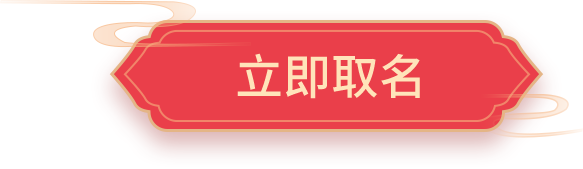
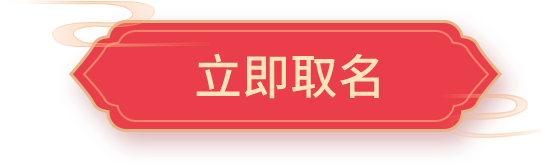
fix(uni_modules): add uni_modules

Changed region(s): [[0.0886, 0.0, 0.9742, 0.8788], [0.3542, 0.303, 0.738, 0.6061], [0.8561, 0.7576, 1.0, 0.8485]]

diff --git a/pages/naming/naming.vue b/pages/naming/naming.vue
@@ -9,7 +9,7 @@
 						中文姓氏
 						<text>*</text>
 					</view>
-					<qm-input placeholder="如张、李" :width="120" :value.sync="lastName"></qm-input>
+					<qm-input placeholder="如张、李" :width="400" :value.sync="lastName"></qm-input>
 					<!-- <qm-radio :arr="['不限','男','女']" :value.sync="sex" labelClass="item"></qm-radio> -->
 				</view>
 				<view class="form-item">
@@ -31,10 +31,13 @@
 						辈分
 						<text style="visibility: hidden">*</text>
 					</view>
-					<qm-input placeholder="如“张小三”是小字辈" :width="320" :value.sync="seniority" />
+					<qm-input placeholder="如“张小三”是小字辈" :width="400" :value.sync="seniority" />
 				</view>
-				<image @click="submit" class="qiming-btn" src="../../static/qiming-btn.png" mode="widthFix" />
-
+				
+				<view class="submit-btn">
+					<image @click="submit" class="qiming-btn" src="../../static/qiming-btn.png" mode="widthFix" />
+				</view>
+				
 				<view class="hint">
 					<view>测试部分免费，获取报告或解锁全部内容时，需付费查看</view>
 					<view>
@@ -54,7 +57,7 @@
 			<view>微信公众号：XXXXXXXX，扫码关注了解更多详情</view>
 		</view>
 
-		<view class="btn-c" @click="submit">
+		<view class="btn-c" @click="submit" v-show="showBtn">
 			<view class="bottom-btn">立即取名</view>
 		</view>
 
@@ -83,10 +86,13 @@ export default {
 			birthdate: null,
 			knowsExactTime: false,
 
+			showBtn: false,
 			isShowCalendar: true
 		};
 	},
-	onLoad() {},
+	onLoad() {
+		this.init()
+	},
 	components: {
 		qmRadio,
 		qmCheckbox,
@@ -95,7 +101,25 @@ export default {
 		qmAd
 	},
 	methods: {
-		confirm() {},
+		init() {
+			const that = this;
+			window.onscroll = function() {
+				let scrollTop = 0
+				if (document.documentElement && document.documentElement.scrollTop){
+					scrollTop = document.documentElement.scrollTop
+				} else if (document.body){
+					scrollTop = document.body.scrollTop
+				}
+				if (scrollTop >= 10){
+					that.showBtn = true
+				} else {
+					that.showBtn = false
+				}
+			}
+		},
+		confirm() {
+			
+		},
 		async submit() {
 			let msg = '';
 			if (!this.lastName) {
@@ -148,7 +172,7 @@ export default {
 }
 
 .form {
-	padding: 0 20rpx;
+	padding: 0 16rpx;
 
 	.title {
 		width: 100%;
@@ -162,10 +186,10 @@ export default {
 		background-repeat: no-repeat;
 		background-size: contain;
 		height: 700rpx;
-		padding: 50rpx 40rpx 0 40rpx;
+		padding: 50rpx 30rpx 0 30rpx;
 
 		.form-item {
-			margin-top: 36rpx;
+			margin-top: 32rpx;
 			display: flex;
 			align-items: center;
 
@@ -181,9 +205,19 @@ export default {
 			}
 		}
 	}
-	.qiming-btn {
-		margin-top: 40rpx;
+	.submit-btn {
+		display: flex;
+		justify-content: center;
+		margin-right: 30rpx;
+		.qiming-btn {
+			margin-top: 40rpx;
+			// position: relative;
+			// right: 32rpx;
+			width: 580rpx;
+			animation: breath 1.8s ease-in-out infinite;
+		}
 	}
+	
 	.hint {
 		display: flex;
 		flex-direction: column;
@@ -238,7 +272,6 @@ export default {
 	position: fixed;
 	bottom: 0;
 	width: 730rpx;
-	animation: breath 1.8s ease-in-out infinite;
 
 	.bottom-btn {
 		display: flex;
@@ -257,13 +290,13 @@ export default {
 
 @keyframes breath {
 	0% {
-		transform: scale(1.1);
+		transform: scale(1);
 	}
 	50% {
-		transform: scale(0.95);
+		transform: scale(0.9);
 	}
 	100% {
-		transform: scale(1.1);
+		transform: scale(1);
 	}
 }
 </style>

diff --git a/pages/package/package.vue b/pages/package/package.vue
@@ -6,8 +6,8 @@
 			<view @click="handleSelect(item)" v-for="(item, index) in packages" :class="['package', selectedPackage && selectedPackage.id === item.id? 'selected' : 'unselected']">
 				<view>
 					<view class="price">
-						<view class="discount">特惠价：{{ item.discountedPrice }}</view>
-						<view class="regular">原价：{{ item.regularPrice }}</view>
+						<view class="discount">特惠价：{{ item.discountedPrice }}元</view>
+						<view class="regular">原价：{{ item.regularPrice }}元</view>
 					</view>
 					<view class="desc">
 						{{ item.name }}：{{ item.description }}
@@ -95,7 +95,7 @@
 <style lang="scss" scoped>
 .body {
 	background-color: #eeeeee;
-	min-height: calc(100vh - 78rpx);
+	min-height: 100vh;
 }
 	
 .banner {
@@ -115,7 +115,6 @@
 		align-items: center;
 		margin-top: 25rpx;
 		border-width: 1px;
-		border-color: rgb(210, 210, 210);
 		border-style: solid;
 		border-radius: 10rpx;
 		
@@ -155,9 +154,12 @@
 	background-image: -moz-linear-gradient( 90deg, rgb(252,234,172) 0%, rgb(254,245,210) 100%);
 	background-image: -webkit-linear-gradient( 90deg, rgb(252,234,172) 0%, rgb(254,245,210) 100%);
 	background-image: -ms-linear-gradient( 90deg, rgb(252,234,172) 0%, rgb(254,245,210) 100%);
+	
+	border-color: #e4c29f;
 }
 .unselected {
 	background-color: #ffffff;
+	border-color: rgb(210, 210, 210);
 }
 .divider {
 	width: 700rpx;

diff --git a/components/qm-ad/qm-ad.vue b/components/qm-ad/qm-ad.vue
@@ -1,7 +1,6 @@
 <template>
 	<view
 		class="box"
-		:style="{ top: top + 'px', left: left + 'px' }"
 	>
 		<image class="ad" src="../../static/ad.png" ></image>
 	</view>
@@ -13,47 +12,9 @@
 		data() {
 			return {
 			  show: true,
-			  stepX: 1,
-			  stepY: 1,
-			  timer: null,
-			  maxTop: 0,
-			  maxLeft: 0,
-			  top: 0,
-			  left: 0,
 			}
 		},
-		mounted() {
-			this.init()
-		},
-		beforeDestroy() {
-			// dom 销毁前清除定时器
-			clearInterval(this.timer)
-		},
-		  methods: {
-		    init() {
-		      this.maxTop = document.documentElement.clientHeight - 90
-		      this.maxLeft = document.documentElement.clientWidth - 65
-		      this.top = 0
-		      this.left = 0
-		      clearInterval(this.timer)
-		      this.timer = setInterval(() => {
-		        this.move()
-		      }, 20)
-		    },
 		 
-		    // 移动函数
-		 
-		    move() {
-		      if (this.top >= this.maxTop || this.top < 0) {
-		        this.stepY = -this.stepY
-		      }
-		      if (this.left >= this.maxLeft || this.left < 0) {
-		        this.stepX = -this.stepX
-		      }
-		      this.top += this.stepY
-		      this.left += this.stepX
-		    },
-		}
 	}
 </script>
 
@@ -64,8 +25,8 @@
   height: 90px;
   position: fixed;
   text-align: left;
-  top: 0;
-  left: 0;
+  right: 24rpx;
+  top: 60%;
 }
 
 .ad {

diff --git a/components/qm-datepicker/qm-datepicker.vue b/components/qm-datepicker/qm-datepicker.vue
@@ -1,10 +1,10 @@
 <template>
 	<view>
-		<view class="datepicker">
-			<view v-if="!showValue" class="choose" @click="handleClick">请选择出生日期</view>
-			<view v-else class="choose" @click="handleClick">{{showValue}}</view>
+		<view class="datepicker" @click="handleClick">
+			<view v-if="!showValue" class="choose placeholder" >请选择出生日期</view>
+			<view v-else class="choose" >{{showValue}}</view>
 			
-			<image src="../../static/calender.svg" class="logo"></image>
+			<image src="../../static/calender.png" class="logo"></image>
 		</view>
 		
 		<view class="pop">
@@ -55,13 +55,17 @@
 	border: 1px solid rgb(215, 51, 64);
 	border-radius: 10rpx;
 	padding: 0 20rpx;
-	width: 320rpx;
+	width: 400rpx;
 	display: flex;
 	justify-content: space-between;
 	align-items: center;
+	
 }
 .choose {
-	color: #808080;
+	color: #272727;
+}
+.placeholder {
+	color: #b8b8b8;
 }
 .logo {
 	width: 42rpx;

diff --git a/components/qm-input/qm-input.vue b/components/qm-input/qm-input.vue
@@ -1,6 +1,6 @@
 <template>
 	<view>
-		<input @input="handleInput" :style="`width: ${width}rpx`" :placeholder="placeholder" class="qm-input"/>
+		<input placeholder-class="placeholder" @input="handleInput" :style="`width: ${width}rpx`" :placeholder="placeholder" class="qm-input"/>
 	</view>
 </template>
 
@@ -28,5 +28,9 @@
 	  border-radius: 10rpx;
 	  height: 60rpx;
 	  padding: 0 20rpx;
+	  font-size: 30rpx;
+	}
+	.placeholder {
+		color: #b8b8b8;
 	}
 </style>

diff --git a/components/qm-calendar/qm-calendar.vue b/components/qm-calendar/qm-calendar.vue
@@ -1650,7 +1650,7 @@
           name: this.lunar == 'solar' ? '公历' : '农历',
           date: '||' + strData.join('|'),
 		  knowsExactTime,
-		  showTime: knowsExactTime ? this.hours[this.value[3]].text : this.hours[0].text,
+		  showTime: knowsExactTime ? this.hours[this.value[3]].text : '未知时辰',
 		  solarDate,
         });
       },

diff --git a/pages/fortune/fortune-package.vue b/pages/fortune/fortune-package.vue
@@ -122,7 +122,7 @@ export default {
 <style lang="scss" scoped>
 .body {
 	background-color: #eeeeee;
-	min-height: calc(100vh - 78rpx);
+	min-height: 100vh;
 }
 
 .banner {
